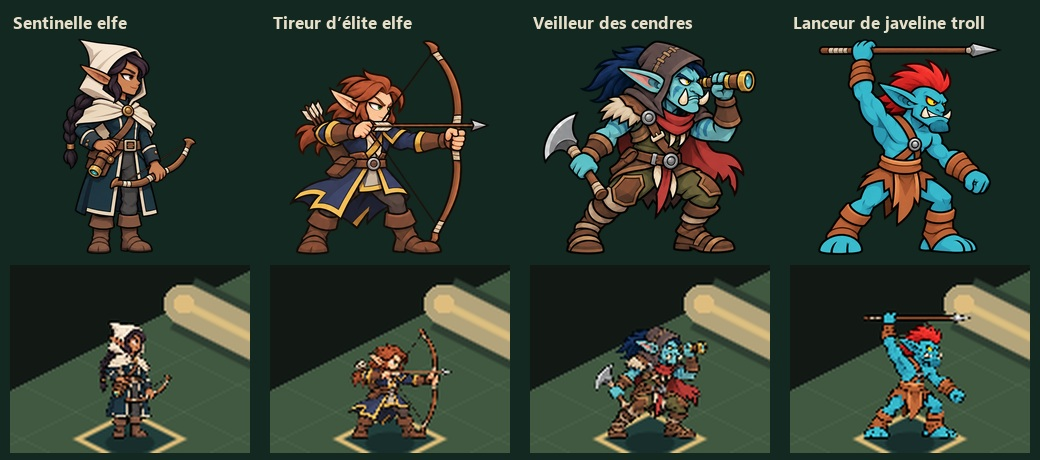
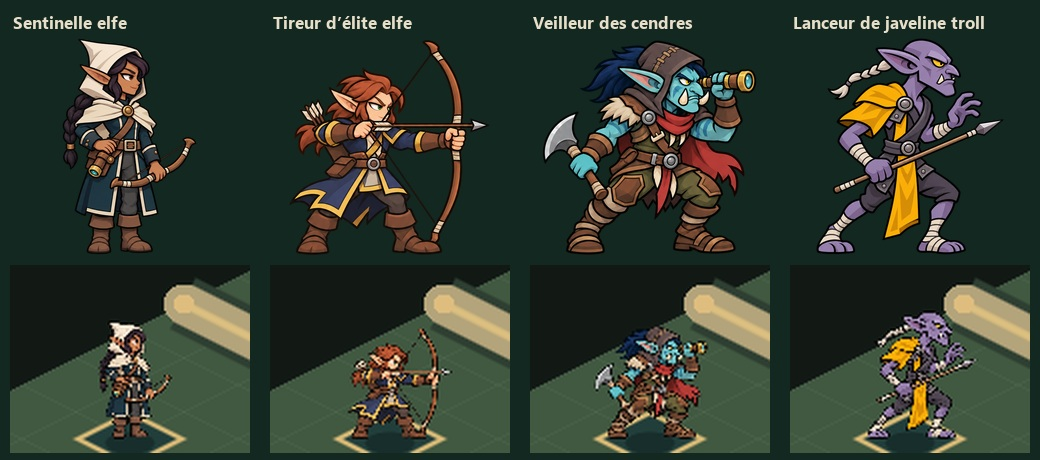
Give the troll javelinier a distinct silhouette

Changed region(s): [[0.7692, 0.0913, 0.9538, 0.5783], [0.8308, 0.6696, 0.9538, 0.9739]]

diff --git a/design/Visuels_Boutique_Guetteurs.md b/design/Visuels_Boutique_Guetteurs.md
@@ -2,15 +2,17 @@
 
 Le porteur a demandé de retrouver le style des unités existantes, puis a jugé les nouvelles proportions meilleures. La troisième planche conserve les visages expressifs, les aplats et les membres de l’archer elfe et des trolls de référence.
 
-La sentinelle porte une capuche ivoire, un manteau bleu pétrole à pans droits et une tresse sombre, en boutique comme sur le plateau. En boutique, elle tient sa longue-vue à deux mains, avec l’arc en bandoulière. Sur le plateau, elle se tient droite, arc court tenu bas en diagonale et longue-vue à la ceinture. La comparaison de référence inclut l’archer elfe de base, blond avec une tunique verte et un grand arc. Le tireur d’élite garde pour l’essai une posture en joue proche de cet archer. Le veilleur tient une hache et le javelinier lève sa javeline au-dessus de sa crête, avec un espace visible entre le bois et les cheveux. Les visuels attendent l’avis du porteur.
+La sentinelle porte une capuche ivoire, un manteau bleu pétrole à pans droits et une tresse sombre, en boutique comme sur le plateau. En boutique, elle tient sa longue-vue à deux mains, avec l’arc en bandoulière. Sur le plateau, elle se tient droite, arc court tenu bas en diagonale et longue-vue à la ceinture. La comparaison de référence inclut l’archer elfe de base, blond avec une tunique verte et un grand arc. Le tireur d’élite garde pour l’essai une posture en joue proche de cet archer. Le veilleur tient une hache.
 
-[Comparaison avec l’archer de base et le tireur d’élite](essais/boutique_guetteurs/Archer_sentinelle_tireur_elite.jpg) · [Illustrations et rendu sur le plateau](essais/boutique_guetteurs/Quatre_unites.jpg) · [Boutique Alliance](essais/boutique_guetteurs/Boutique_Alliance.jpg) · [Boutique Horde](essais/boutique_guetteurs/Boutique_Horde.jpg)
+Le 14 novembre 2026, le porteur a approuvé la sentinelle et relevé la ressemblance du javelinier avec le lanceur de haches de base. Le nouveau javelinier proposé a une silhouette plus fine, une tresse claire, la peau mauve et un long pan ocre. Il tient la javeline en diagonale sous le visage.
+
+[Comparaison avec l’archer de base et le tireur d’élite](essais/boutique_guetteurs/Archer_sentinelle_tireur_elite.jpg) · [Comparaison des trois trolls](essais/boutique_guetteurs/Troll_haches_javelinier_veilleur.jpg) · [Illustrations et rendu sur le plateau](essais/boutique_guetteurs/Quatre_unites.jpg) · [Boutique Alliance](essais/boutique_guetteurs/Boutique_Alliance.jpg) · [Boutique Horde](essais/boutique_guetteurs/Boutique_Horde.jpg)
 
 | Type | Fichier | Cadre | Pied | Hauteur du cadre | Départ du projectile proposé |
 | --- | --- | --- | --- | ---: | --- |
 | 10 | `sentinelle_elfe_v001.png` | `Rect2(0,0,543,871)` | `(232, 871)` | 59 | `(11.0, -22.5)` |
 | 11 | `tireur_elite_elfe_v001.png` | `Rect2(0,0,575,610)` | `(234, 610)` | 56 | `(22.625, -33.5)` |
 | 16 | `veilleur_cendres_v001.png` | `Rect2(0,0,575,570)` | `(282, 570)` | 57 | `(-18.375, -24.125)` |
-| 17 | `javelinier_troll_v001.png` | `Rect2(0,0,1024,1196)` | `(444, 1196)` | 64 | `(-9.875, -60.5)` |
+| 17 | `javelinier_troll_v001.png` | `Rect2(0,0,894,1031)` | `(347, 1031)` | 64 | `(-3.25, -25.5)` |
 
 Une copie d’essai v0.197 a affiché les quatre portraits en boutique. Les quatre unités ont été achetées sur des profils isolés, recrutées au Gué et observées jusqu’au premier tir. L’archer de base a été capturé au même emplacement. Le test visuel de boutique étendu sur la copie passe ses 40 contrôles. Le raccord officiel des ressources à la boutique et au plateau attend l’avis du porteur. Pour le type 10, utiliser `sentinelle_elfe_guet_v001.png` (543 × 858) comme portrait et inclure ce PNG dans les listes d’export. Les tirs utilisent encore le rendu générique des familles dans la copie, dont le carreau de la famille arbalétrier pour le tireur d’élite et la hache pour le javelinier. Le rendu des projectiles doit être associé à l’arc et à la javeline lors du branchement.

diff --git a/PASSATION.md b/PASSATION.md
@@ -4,6 +4,8 @@ Mettre ce fichier à jour à chaque fin de mission ou changement d'agent (voir `
 
 ## État au 14 novembre 2026 — Codex
 
+**Sentinelle et javelinier.** Le porteur valide la sentinelle (`3e15175`), portrait au guet et sprite de garde prêts à brancher. Il a demandé de différencier le javelinier du lanceur de haches de base. Nouvelle silhouette du javelinier avec javeline basse, pan ocre et peau mauve, à valider. Copie d’essai v0.197 : 40 contrôles d’illustrations réussis et six passages jusqu’au premier tir, dont les deux unités de base de référence. [Comparatif des trolls](design/essais/boutique_guetteurs/Troll_haches_javelinier_veilleur.jpg).
+
 **Boutique, types 10, 11, 16 et 17.** Sentinelle redessinée en capuche ivoire et manteau bleu pétrole, avec comparaison à l’archer de base. Quatre portraits, premiers tirs et passage de référence de l’archer de base vérifiés sur la copie d’essai v0.197, 40 contrôles au vert. Le porteur exige désormais une silhouette propre à chaque unité. Le chantier est ouvert dans TODO_VISUELS.md, avec la proximité des deux autres archers et le doublon de la garnison orque identifiés. Avis artistique et branchement à suivre. [Aperçus](design/Visuels_Boutique_Guetteurs.md).
 
 **Nécropole 191–200 et Revenant.** Cinq placements par carte, trois planches de marche en combat et portrait livré. 26 passages en vague 4 dans les deux factions. Le validateur couvre 23 dossiers sans problème. Sept suites ciblées passent (31 528 contrôles Godot et 17 tests Python). Le portrait et la relève sont à brancher par Claude Code. La planche de relève a un aperçu isolé. [Fiche](design/Visuels_Necropole.md#chapitre-20--missions-191-à-200).

diff --git a/ECHANGES_CODEX_VERS_CLAUDE.md b/ECHANGES_CODEX_VERS_CLAUDE.md
@@ -6,6 +6,10 @@ Format d'une entrée : `### AAAA-MM-JJ — Titre (ouvert)` puis le contenu : fic
 
 ## Ouvert
 
+### 2026-11-14 — Sentinelle validée, nouveau javelinier à valider (ouvert)
+
+Le porteur a validé la sentinelle en capuche ivoire (`3e15175`). Type 10 : portrait `sentinelle_elfe_guet_v001.png`, sprite `sentinelle_elfe_v001.png`, cadre 543 × 871, ancre (232, 871), hauteur 59, origine du tir (11, −22,5). Déclarer les deux PNG à l’export. Le type 17 est redessiné pour se distinguer du troll de base et attend l’avis du porteur. Voir la [fiche actualisée](design/Visuels_Boutique_Guetteurs.md).
+
 ### 2026-11-14 — Corrections des guetteurs et tireurs d’élite (ouvert)
 
 Les PNG révisés remplacent la proposition du 13 novembre. Le tireur d’élite elfe utilise un grand arc et le troll tient sa javeline au-dessus de la crête. La sentinelle dispose d’un portrait au guet à deux mains et d’une pose de garde avec arc court abaissé sur le plateau. Attendre l’avis du porteur. À l’intégration, associer `sentinelle_elfe_guet_v001.png` au portrait du type 10 et l’ajouter aux listes d’export. Associer visuellement un projectile de type flèche au 11 et une javeline au 17. Le 11 reste dans sa famille actuelle pour les talents et l’équilibrage tant qu’une règle n’est pas décidée. Les cadres et points de départ actualisés sont dans la [fiche](design/Visuels_Boutique_Guetteurs.md).
